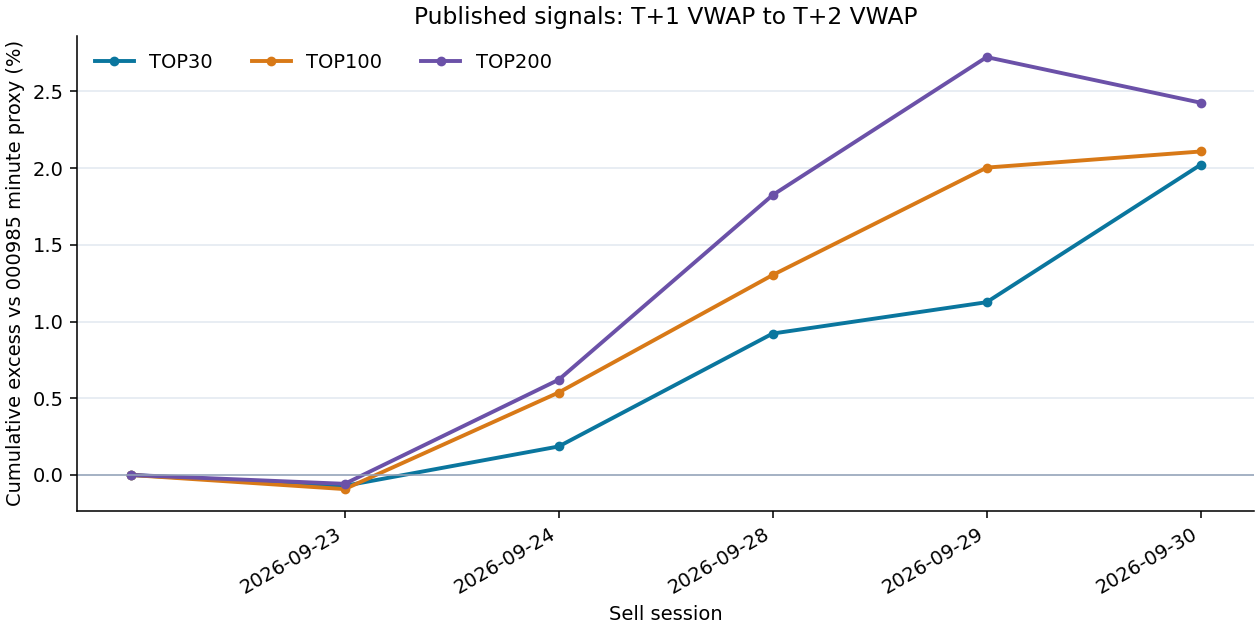
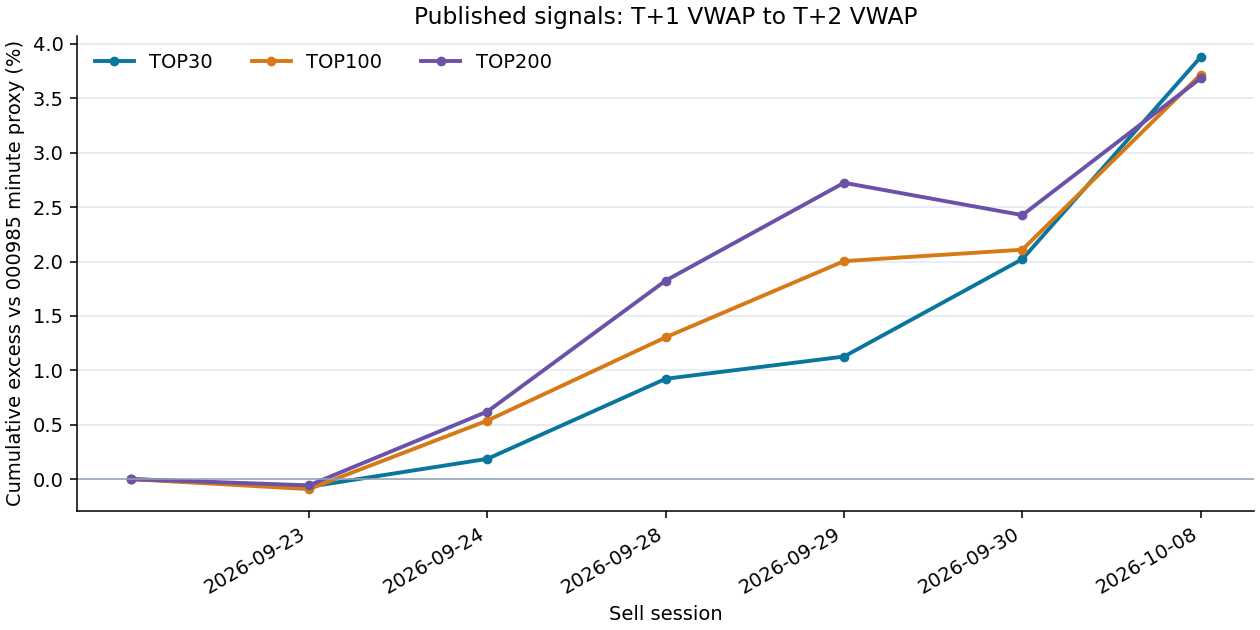
Update published signal performance through 2026-10-08

diff --git a/README.md b/README.md
@@ -17,13 +17,13 @@ CSV 编码为 UTF-8 BOM，按 `signal` 降序排列。
 <!-- PUBLIC_PERFORMANCE_START -->
 ## 已发布信号的历史表现
 
-仅统计本仓库 `signals/YYYY-MM-DD.csv` 已上传且买卖两日行情均完整的信号；截至 **2026-09-30**，共有 **5** 个已完成信号日，另有 **2** 个待结算或数据未齐。样本很短，暂无统计显著性结论。
+仅统计本仓库 `signals/YYYY-MM-DD.csv` 已上传且买卖两日行情均完整的信号；截至 **2026-10-08**，共有 **6** 个已完成信号日，另有 **2** 个待结算或数据未齐。样本很短，暂无统计显著性结论。
 
 | 组合 | 已完成信号日 | 组合累计收益 | 000985同期收益 | 累计超额 |
 |---|---:|---:|---:|---:|
-| TOP30 | 5 | -2.98% | -4.91% | +2.02% |
-| TOP100 | 5 | -2.90% | -4.91% | +2.11% |
-| TOP200 | 5 | -2.60% | -4.91% | +2.43% |
+| TOP30 | 6 | -1.97% | -5.63% | +3.88% |
+| TOP100 | 6 | -2.12% | -5.63% | +3.72% |
+| TOP200 | 6 | -2.15% | -5.63% | +3.68% |
 
 ![TOP30、TOP100、TOP200 累计超额净值](performance/excess_nav.png)
 
@@ -38,6 +38,7 @@ CSV 编码为 UTF-8 BOM，按 `signal` 降序排列。
 | 2026-09-23 | 2026-09-28 | +71.35 | +73.99 | +116.18 |
 | 2026-09-24 | 2026-09-29 | +20.15 | +68.78 | +87.89 |
 | 2026-09-28 | 2026-09-30 | +88.88 | +10.33 | -29.04 |
+| 2026-09-29 | 2026-10-08 | +180.63 | +156.52 | +121.89 |
 
 ![TOP30、TOP100、TOP200 逐日超额](performance/daily_excess.png)
 
